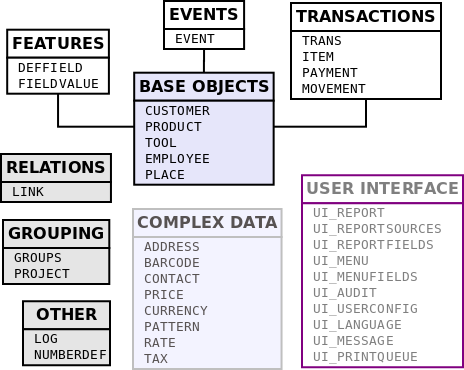
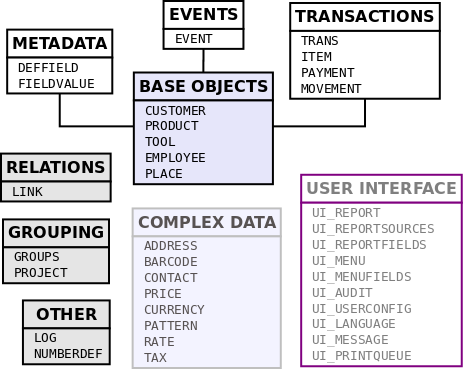
v3.2.3

diff --git a/views/docs/nom.html b/views/docs/nom.html
@@ -40,7 +40,7 @@
       <li><a href="#overview">Overview</a></li>
       <li><a href="#object">Objects</a></li>
       <li><a href="#base_object">Base objects</a></li>
-      <li><a href="#fields">Features</a></li>
+      <li><a href="#fields">Metadata</a></li>
       <li><a href="#events">Events</a></li>
       <li><a href="#trans">Transaction</a></li>
       <li><a href="#link">Relations</a></li>
@@ -99,7 +99,7 @@
 			<p>The number of objects is minimal, their structure is simple. It 
         has an easy to learn, clear and straightforward logic. However it is
 				capable to store the required data in structures. It ensures the
-				possibility to attach defined type features of any kind to each
+				possibility to attach defined type metadata of any kind to each
 				object and also makes the objects linkable to each other
 				arbitrarily.</p>
 			<p>The data model is independent from data storage layer. The data storage can be
@@ -133,35 +133,22 @@
 			</p>
     </li>
     <li>
-      <h3><a name="fields">Features</a></h3>
+      <h3><a name="fields">Metadata</a></h3>
       <p>All data that <b><i>describe a given object</i></b>, we want to attach to it
 				as information. Some of them are pre-defined but further ones can
 				freely be defined for any of the objects.</p>
-			<p>
-				<i>When using the Nervatura Data Interface (NDI) a feature of an
-					object which has not existed before- is automatically generated
-					when the first value is given. If we create a new feature in this
-					way then its type is unidentifiable thus it will be automatically
-					text. However by defining the exact type of certain features, we
-					could easily ensure that the stored data is correct. </i>
-			</p>
-			<p>By using the <span class="nobj">DEFFIELD</span> object we can define data storage features
+			<p>By using the <span class="nobj">DEFFIELD</span> object we can define data storage metadata
 				for other objects. Besides the classical data types (bool, integer,
 				float, date, time, string, notes) these can contain list of values
 				(valuelist), url links (urlink) or references to concrete items
 				of other objects (customer, product, tool, employee, etc.).</p>
-      <p>
-				<i>When using NDI, values of features defined in this way can be set
-					for the objects' elements with the name of the feature and can be
-					queried as well.</i>
-			</p>
 			<p>Through the <span class="nobj">FIELDVALUE</span> object every defined feature of the elements
 				of all objects can be queried.</p>
     </li>
     <li>
       <h3><a name="events">Events</a></h3>
-      <p><b><i>Extended object features, usually connected to a time or an interval.</i></b>
-				With the help of events we can make the static features of an object
+      <p><b><i>Extended object metadata, usually connected to a time or an interval.</i></b>
+				With the help of events we can make the static metadata of an object
 				into dynamic so the feature of a given component is able to take
 				various values at different times. An event can also be valid for a
 				period of time, so having a start and an end date. Optional number
@@ -190,7 +177,7 @@
 				customer-tool (rental), employee-customer (worksheet) etc.</p>
 			<p>We can link additional data to transactions just as to events, but
 				in contrary to events, here we don’t use the features of the linked
-				base object but we can declare own, additional data. Transactions
+				base object but we can declare own metadata. Transactions
 				can also be linked to each other or can "originate" from each other,
 				for instance offer -> order -> inventory move -> invoice.</p>
 			<p>The object of transactions is the <span class="nobj">TRANS</span> which contains the main
@@ -231,9 +218,9 @@
 				for creating classical one to many groups (for example customer or
 				product groups).</p>
 			<p>Actually the <span class="nobj">PROJECT</span> object can be interpreted as the extension of
-				GROUPS object. Surely it is possible to set additional data features
+				GROUPS object. Surely it is possible to set metadata
 				here as well but at PROJECT object time related extension is also
-				possible, just like it is in case of events vs. features. Optionally
+				possible, just like it is in case of events vs. metadata. Optionally
 				it can have start or end date, we can also link it to customers or
 				places. Projects can also have their own events as well as any
 				transaction can be linked to them.</p>
@@ -247,7 +234,7 @@
 				the city, the zip code or the name of the street as well.<br>
 				Some complex data types can be linked not only to a single object but the
 				same element can also be attached to many others. In some of them it
-				is possible to define further additional data.
+				is possible to define further metadata.
 			</p>
 			<p>One to many linked sub objects: <br>
 			  <span class="nobj">ADDRESS</span>,
@@ -268,10 +255,7 @@
       <p>These objects <b><i>are not part of the object model</i></b>, they are not
 				needed for recording the workflow data. However certain applications
 				to ensure their own operation might require data storage
-				possibilities.<br> 
-				<i>These objects are not or not fully supported by
-				the functions of NDI, though they are available through the
-				Nervatura Programming Interface (NPI).</i>
+				possibilities.
 			</p>
 			<p>Storage of data of Reports: <br>
 			  <span class="nobj">UI_REPORT,

diff --git a/lib/nervastore.js b/lib/nervastore.js
@@ -821,7 +821,7 @@ function get_id_from_refnumber(self, params, _callback){
               inner_join:[["groups ug","on",[["au.usergroup","=","ug.id"],
                 ["and","ug.groupvalue","=","?"]]], 
               ["groups nt","on",["au.nervatype","=","nt.id"]]],
-              where:[]};
+              where:[["nt.groupvalue","=","'"+refnumber.split("~")[1]+"'"]]};
             if (refnumber.split("~").length > 2) {
               if (refnumber.split("~")[1]==="trans"){
                 vsql.inner_join.push(["groups st","on",[["au.subtype","=","st.id"],
@@ -830,7 +830,6 @@ function get_id_from_refnumber(self, params, _callback){
                 vsql.inner_join.push(["ui_report rp","on",[["au.subtype","=","rp.id"],
                   ["and","rp.reportkey","=","'"+refnumber.split("~")[2]+"'"]]]);}
               else {err = self.lang.invalid_refnumber;}}
-            vsql.where.push(["and","nt.groupvalue","=","'"+refnumber.split("~")[1]+"'"]);
             if (refnumber.split("~").length <= 2) {
               vsql.where.push(["and","subtype","is","null"]);}
             refnumber = refnumber.split("~")[0];}
@@ -1384,7 +1383,7 @@ function delete_data(self, params, _callback){
                 {union_select:["count(*) as co"], from:"movement", 
                   where:[["movement.deleted","=","0"],["and","movement.place_id","=",ref_id]]},
                 {union_select:["count(*) as co"], from:"place", 
-                  where:[["place.deleted","=","0"],["and","place.place_id","=",ref_id]]},
+                  where:[["place.deleted","=","0"],["and","place.id","=",ref_id]]},
                 {union_select:["count(*) as co"], from:"rate", 
                   where:[["rate.deleted","=","0"],["and","rate.place_id","=",ref_id]]},
                 {union_select:["count(*) as co"], from:"trans", 

diff --git a/test/npi.test.js b/test/npi.test.js
@@ -18,6 +18,46 @@ describe('ndi', () => {
       done();
     })
   })
+  it("nervastore", (done) => {
+    nstore.connect.getDatabaseSettings({}, (err, settings) => {
+      expect(err).toBeNull();
+      done();
+    })
+    /*
+    nstore.valid.getGroupsId({
+      groupname: ["transtype", "usergroup"]
+    }, (err, groups) => {
+      expect(err).toBeNull();
+      done();
+    })
+    nstore.connect.getObjectAudit({
+      nervatype: "customer"
+    }, (err, info) => {
+      expect(err).toBeNull();
+      done();
+    })
+    nstore.connect.getDataAudit({}, (err, info) => {
+      expect(err).toBeNull();
+      done();
+    })
+    nstore.valid.getRefnumber(
+      {nervatype: "item", ref_id: 6, rettype: ""}, (err, id, info) => {
+      expect(err).toBeNull();
+      done();
+    })
+    nstore.valid.getIdFromRefnumber(
+      {nervatype: "ui_reportsources", refnumber: "ntr_invoice_en~head", extra_info: false}, (err, id, info) => {
+      expect(err).toBeNull();
+      done();
+    })  
+    setData(nstore, "delete", 
+      { login:{database:"test", username:"admin"}, 
+        record: {__tablename__: "customer", refnumber: "DMCUST/00001" } }, (err, results) => {
+      expect(err).toBeNull();
+      done();
+    })
+    */
+  })
   
   it("setData", (done) => {
     setData(nstore, "function", 

diff --git a/lib/npi.js b/lib/npi.js
@@ -145,7 +145,7 @@ function set_data(nstore, login, params, _callback) {
           break;
         case "delete":
           var delete_params = {nervatype:params.record.__tablename__, ref_id:params.record.id, 
-            transaction:params.transaction, validator:validator};
+            refnumber:params.record.refnumber, transaction:params.transaction, validator:validator};
           nstore.connect.deleteData(delete_params, function(err, id){
             if (err) {
               callback(err, validator);}
